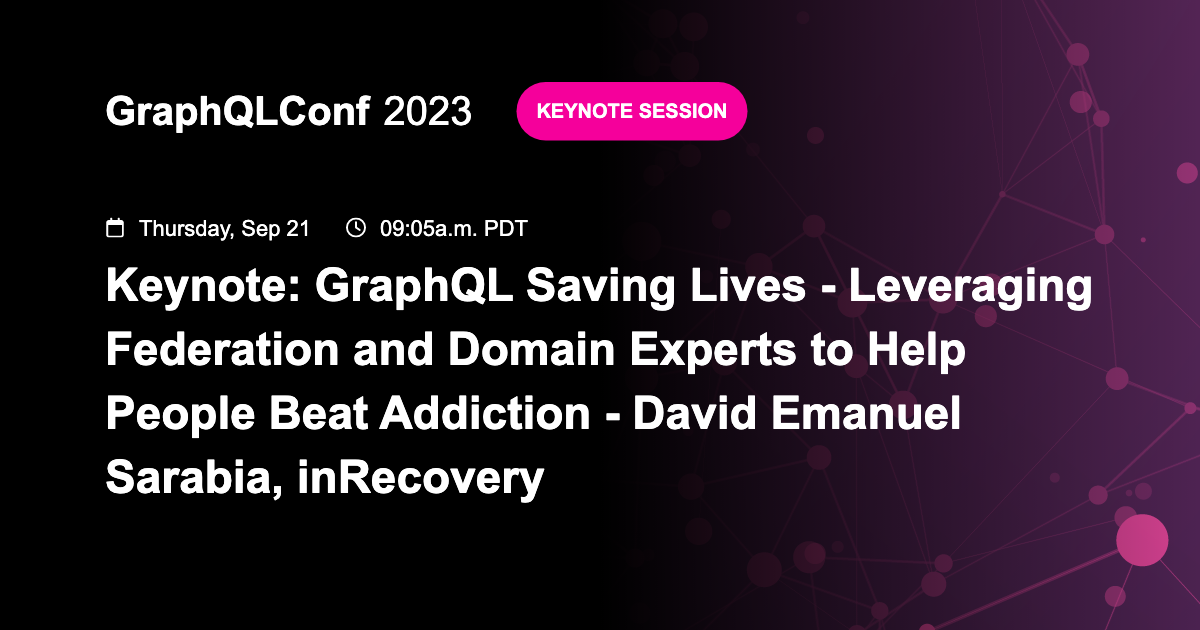
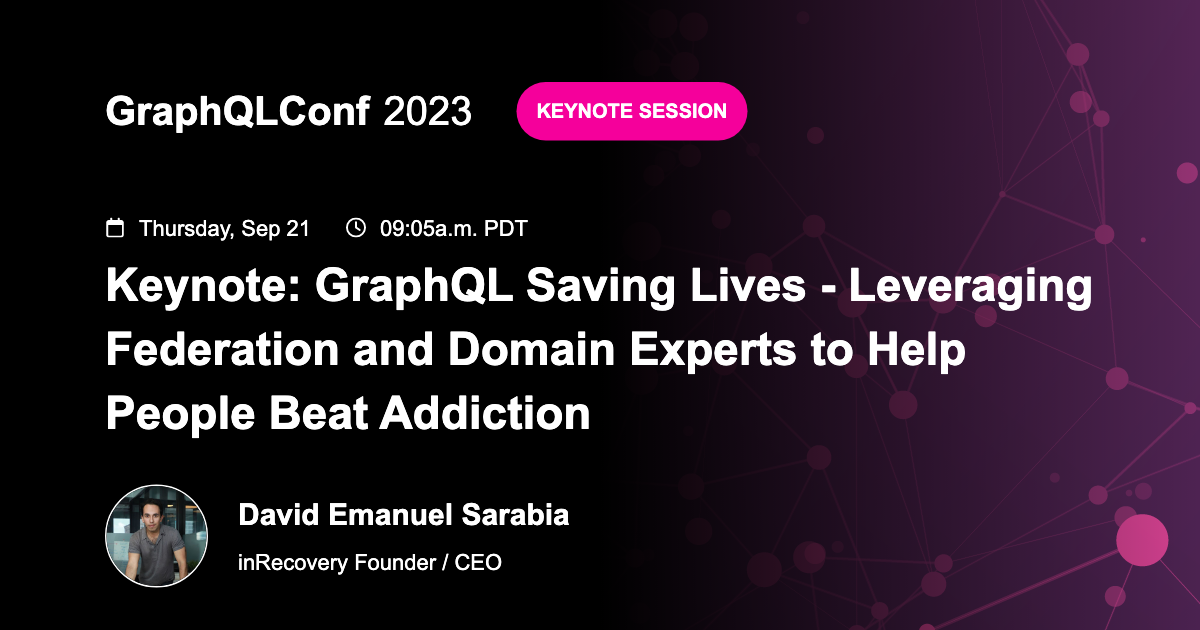
conf: fix event title (#1537)

Changed region(s): [[0.0617, 0.7238, 0.4933, 0.9349], [0.5242, 0.6032, 0.8017, 0.6937]]

diff --git a/src/components/Conf/Schedule/ScheduleList.tsx b/src/components/Conf/Schedule/ScheduleList.tsx
@@ -1,6 +1,7 @@
 import { format, parseISO, compareAsc } from "date-fns"
 import React, { FC } from "react"
 import { eventsColors } from "../../../utils/eventsColors"
+import { getEventTitle } from "../../../utils/eventTitle"
 
 function groupByKey<T>(arr: T[], getKey: (entity: T) => any) {
   return Array.from<[string, T[]]>(
@@ -84,15 +85,7 @@ const ScheduleList: FC<Props> = ({
                       : session.event_type
 
                     const speakers = session.speakers?.split(",") || []
-                    const eventTitle =
-                      speakers.length > 0
-                        ? session.name.substring(
-                            0,
-                            session.name.indexOf(
-                              `${speakers[0].replace("ı", "i")}`
-                            ) - 3
-                          )
-                        : session.name
+                    const eventTitle = getEventTitle(session, speakers)
 
                     const [borderColor] = getSessionColor(
                       session.event_type.toLowerCase()

diff --git a/src/templates/EventOgImageTemplate.tsx b/src/templates/EventOgImageTemplate.tsx
@@ -3,6 +3,7 @@ import { PageProps } from "gatsby"
 import { ScheduleSession } from "../components/Conf/Schedule/ScheduleList"
 import { SchedSpeaker } from "../components/Conf/Speakers/Speaker"
 import { format, parseISO } from "date-fns"
+import { getEventTitle } from "../utils/eventTitle"
 
 const EventOgImageTemplate = ({
   pageContext,
@@ -13,19 +14,16 @@ const EventOgImageTemplate = ({
     company: speaker.company,
     position: speaker.position,
   }))
-  const { name, event_type, event_start: eventDate } = pageContext.event
+  const { event_type, event_start: eventDate } = pageContext.event
 
   const eventType = event_type.endsWith("s")
     ? event_type.slice(0, -1)
     : event_type
 
-  const eventTitle =
-    speakers.length > 0
-      ? name.substring(
-          0,
-          name.indexOf(`${speakers[0].name.replace("ı", "i")}`) - 3
-        )
-      : name
+  const eventTitle = getEventTitle(
+    pageContext.event,
+    pageContext.speakers.map(s => s.name)
+  )
 
   return (
     <div

diff --git a/src/templates/event.tsx b/src/templates/event.tsx
@@ -17,6 +17,7 @@ import {
   SocialMediaIconServiceType,
 } from "../components/Conf/Speakers/SocialMedia"
 import { BackLink } from "../components/Conf/Schedule/BackLink"
+import { getEventTitle } from "../utils/eventTitle"
 
 const Tag = ({
   text,
@@ -45,13 +46,10 @@ export const EventComponent: FC<{
     ? event.event_type.slice(0, -1)
     : event.event_type
 
-  const eventTitle =
-    speakers.length > 0
-      ? event.name.substring(
-          0,
-          event.name.indexOf(`${speakers[0].name.replace("ı", "i")}`) - 3
-        )
-      : event.name
+  const eventTitle = getEventTitle(
+    event,
+    speakers.map(s => s.name)
+  )
 
   return (
     <div className={`bg-white ${!hideBackButton ? "py-10" : ""}`}>

diff --git a/src/utils/eventTitle.ts b/src/utils/eventTitle.ts
@@ -1,0 +1,19 @@
+import { ScheduleSession } from "../components/Conf/Schedule/ScheduleList"
+
+export function getEventTitle(
+  event: ScheduleSession,
+  speakers: string[] | undefined
+): string {
+  if (!speakers) {
+    return event.name
+  }
+
+  speakers?.forEach(speaker => {
+    const speakerInTitle = event.name.indexOf(`- ${speaker.replace("ı", "i")}`)
+    if (speakerInTitle > -1) {
+      event.name = event.name.slice(0, speakerInTitle)
+    }
+  })
+
+  return event.name
+}
